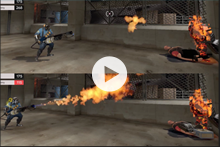
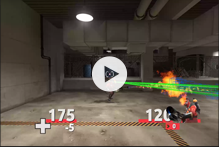
pyro update

diff --git a/pyro/index.html b/pyro/index.html
@@ -6,7 +6,7 @@
 	<meta http-equiv="X-UA-Compatible" content="IE=9" />
     <link href="css/main.css" rel="stylesheet" type="text/css">
     <link href="css/popup.css" rel="stylesheet" type="text/css">
-	<title>Open letter from competetive community</title>
+	<title>From Pyro with love.</title>
 	
 </head>
 <body>
@@ -213,15 +213,15 @@ We are top competitive pyros from the USA, Europe, Australia and Asia. Together 
 		</div>
     
     <div id="afterburnimg">
-        <a class="popup-youtube" href="https://www.youtube.com/watch?v=jUfIT1oDiYw"><img src="images/airblastimg.png"></a>
+        <a class="popup-youtube" href="https://www.youtube.com/watch?v=lyFqjOCJ1mY"><img src="images/afterburnimg.png"></a>
         </div>
     
     <div id="viewmodelimg">
-        <a class="popup-youtube" href="https://www.youtube.com/watch?v=jUfIT1oDiYw"><img src="images/airblastimg.png"></a>
+        <a class="popup-youtube" href="https://www.youtube.com/watch?v=eg-s_LhV8c4"><img src="images/viewmodal-img.png"></a>
         </div>
     
     <div id="abrangeimg">
-        <a class="popup-youtube" href="https://www.youtube.com/watch?v=jUfIT1oDiYw"><img src="images/airblastimg.png"></a>
+        <a class="popup-youtube" href="https://www.youtube.com/watch?v=z0JbBRYlYZQ"><img src="images/ab-rangeing.png"></a>
         </div>
     
 		</div>

diff --git a/pyro/css/main.css b/pyro/css/main.css
@@ -364,7 +364,6 @@ img {
     height:147px;
     left: 400px;
     top: 260px;
-    background-image:url(../images/airblastimg.png);
     background-repeat: no-repeat;
     background-position: center;
     -webkit-box-shadow: 0px 0px 20px -3px rgba(0,0,0,0.75);
@@ -377,7 +376,6 @@ img {
     width: 230px;
     left: 685px;
     top: 740px;
-    background-image:url(../images/airblastimg.png);
     background-repeat: no-repeat;
     background-position: center;
     -webkit-box-shadow: 0px 0px 20px -3px rgba(0,0,0,0.75);
@@ -390,7 +388,6 @@ img {
     width: 230px;
     left: 405px;
     top: 740px;
-    background-image:url(../images/airblastimg.png);
     background-repeat: no-repeat;
     background-position: center;
     -webkit-box-shadow: 0px 0px 20px -3px rgba(0,0,0,0.75);
@@ -403,7 +400,6 @@ img {
     width: 230px;
     left: 115px;
     top: 740px;
-    background-image:url(../images/airblastimg.png);
     background-repeat: no-repeat;
     background-position: center;
     -webkit-box-shadow: 0px 0px 20px -3px rgba(0,0,0,0.75);
